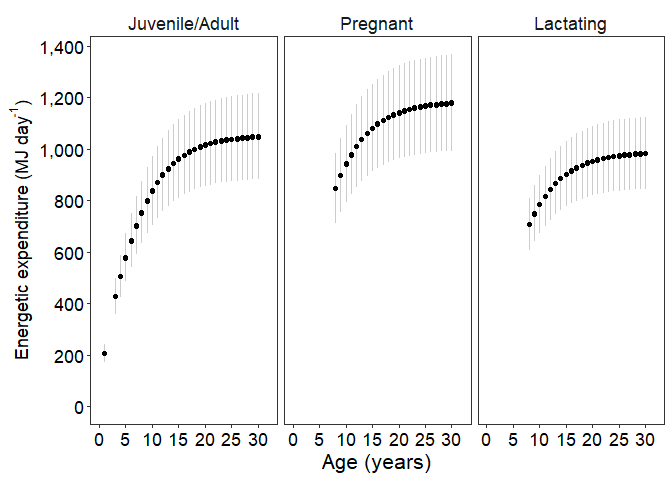
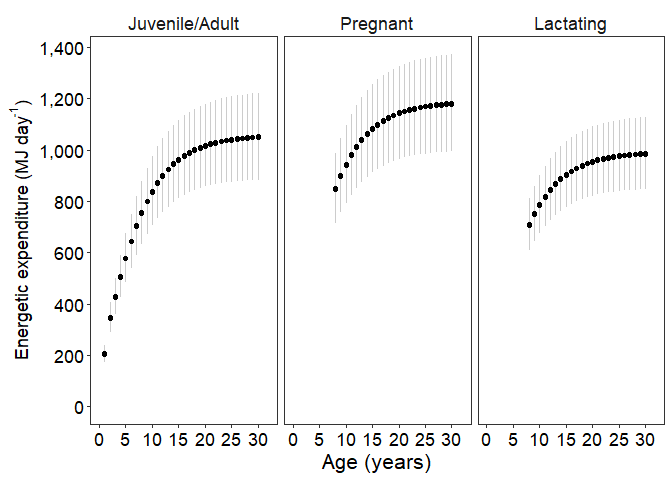
commit updates to results charts for paper

diff --git a/results_for_paper/EnergeticsModeling_GreyWhales_Results_charts.md b/results_for_paper/EnergeticsModeling_GreyWhales_Results_charts.md
@@ -1,7 +1,7 @@
 ENERGY REQUIREMENTS OF GREY WHALES
 ================
 Selina Agbayani
-29 July, 2025
+31 July, 2025
 
 ## RESULTS
 
@@ -19,11 +19,7 @@ Selina Agbayani
 
 #### Grey whale calves
 
-    ## Error: 'data/Es_table_phase1_permth_source_bpm.csv' does not exist in current working directory ('C:/Users/AgbayaniS/Documents/R/graywhale_energyreqs').
-
-    ## Error in eval(expr, envir, enclos): object 'Es_table_phase1_permth' not found
-
-    ## Error in eval(expr, envir, enclos): object 'plot_Es_table_phase1_mthly_perday' not found
+![](EnergeticsModeling_GreyWhales_Results_charts_files/figure-gfm/Es_table_phase1_permth-1.png)<!-- -->
 
 Figure 4. Estimates of daily energetic expenditure from activity (MJ
 day<sup>-1</sup>) for each month in the first year (Phase 1). Error bars
@@ -42,44 +38,20 @@ Error bars represent SD.
 
 #### Grey whale calves
 
-    ## Error: 'data/predict_GER_table_phase1_permth_source_bpm.csv' does not exist in current working directory ('C:/Users/AgbayaniS/Documents/R/graywhale_energyreqs').
-
-    ## Error in eval(expr, envir, enclos): object 'predict_GER_table_phase1_permth' not found
-
-    ## Error in eval(expr, envir, enclos): object 'plot_predict_GER_phase1_permth' not found
+![](EnergeticsModeling_GreyWhales_Results_charts_files/figure-gfm/predict_GER_table_phase1_permth-1.png)<!-- -->
 
 Figure 6. Daily Gross Energy Requirements (GER) for calves in the first
 year in MJ day<sup>-1</sup>. Error bars represent SD.
 
 #### Grey whale juveniles / adults
 
-    ## Error: 'data/predict_GER_table_phase2_source_bpm.csv' does not exist in current working directory ('C:/Users/AgbayaniS/Documents/R/graywhale_energyreqs').
-
-    ## Error in eval(expr, envir, enclos): object 'predict_GER_table_phase2' not found
-
-    ## Error in eval(expr, envir, enclos): object 'predict_GER_table_phase2' not found
-
-    ## Error in eval(expr, envir, enclos): object 'predict_GER_table_phase2' not found
-
-    ## Error in eval(expr, envir, enclos): object 'predict_GER_table_phase2' not found
-
-    ## Error in eval(expr, envir, enclos): object 'plot_predict_GER_all_yr_phase2' not found
-
-    ## Error in eval(expr, envir, enclos): object 'plot_predict_GER_phase2_both_annual_foraging' not found
+![](EnergeticsModeling_GreyWhales_Results_charts_files/figure-gfm/predict_GER_table_phase2-1.png)<!-- -->
 
 Figure 7. Daily gross energy requirements over the year compared to
 gross daily requirements when foraging is limited to the summer season.
 Foraging season spans ~154 days for juveniles and adults.
 
-    ## Error: 'data/predict_GER_table_all_preg_lact_source_bpm.csv' does not exist in current working directory ('C:/Users/AgbayaniS/Documents/R/graywhale_energyreqs').
-
-    ## Error in eval(expr, envir, enclos): object 'predict_GER_table_3panel' not found
-
-    ## Error in eval(expr, envir, enclos): object 'predict_GER_table_3panel' not found
-
-    ## Error in eval(expr, envir, enclos): object 'plot_GER_3panel' not found
-
-    ## Error in eval(expr, envir, enclos): object 'plot_GER_3panel' not found
+![](EnergeticsModeling_GreyWhales_Results_charts_files/figure-gfm/predict_GER_table_preg_lact-1.png)<!-- -->
 
 Figure 8. Estimates for gross energy requirements for pregnant,
 lactating females, and others (juvenile and other adult grey whales).
@@ -94,15 +66,7 @@ lactating females. Error bars represent SD.
 
 #### Grey whale calves
 
-    ## Error: 'data/predict_GER_table_phase1_permth_source_bpm.csv' does not exist in current working directory ('C:/Users/AgbayaniS/Documents/R/graywhale_energyreqs').
-
-    ## Error in eval(expr, envir, enclos): object 'predict_GER_table_phase1_permth' not found
-
-    ## Error in eval(expr, envir, enclos): object 'predict_GER_table_phase1_permth' not found
-
-    ## Error in eval(expr, envir, enclos): object 'plot_MilkReqs_phase1' not found
-
-    ## Error in eval(expr, envir, enclos): object 'milkreqs_figure' not found
+![](EnergeticsModeling_GreyWhales_Results_charts_files/figure-gfm/plot_milk_food_reqs_phase1-1.png)<!-- -->
 
 Figure 9. Daily milk requirements for calves. The left panel represents
 milk requirements (L day<sup>-1</sup>) for calves up to 9 months (left
@@ -111,13 +75,7 @@ invertebrate prey day<sup>-1</sup>) for weaned calves over 9 months.
 
 #### Grey whale juveniles and adults, including pregnant and lactating
 
-    ## Error: 'data/predict_GER_table_all_preg_lact_source_bpm.csv' does not exist in current working directory ('C:/Users/AgbayaniS/Documents/R/graywhale_energyreqs').
-
-    ## Error in eval(expr, envir, enclos): object 'predict_GER_table_3panel' not found
-
-    ## Error in eval(expr, envir, enclos): object 'predict_GER_table_3panel' not found
-
-    ## Error in eval(expr, envir, enclos): object 'plot_FoodReqs_3panel' not found
+![](EnergeticsModeling_GreyWhales_Results_charts_files/figure-gfm/plot_FoodReqs_3panel-1.png)<!-- -->
 
 Figure 10. Food requirements (kg day-1) of benthic invertebrate prey for
 pregnant females, lactating females, and others (juveniles and other
@@ -126,13 +84,7 @@ be ~154 days for single juveniles (1-7 y) and adults (\> 8 y), ~153 days
 for pregnant females, and ~119 days for lactating females. Error bars
 represent SD.
 
-    ## Error: 'data/pct_bodyweight_all_lact_preg.csv' does not exist in current working directory ('C:/Users/AgbayaniS/Documents/R/graywhale_energyreqs').
-
-    ## Error in eval(expr, envir, enclos): object 'pct_bodyweight_all' not found
-
-    ## Error in eval(expr, envir, enclos): object 'pct_bodyweight_all' not found
-
-    ## Error in eval(expr, envir, enclos): object 'plot_pct_bodyweight_all' not found
+![](EnergeticsModeling_GreyWhales_Results_charts_files/figure-gfm/plot_pct_bodywt_consumed_3panel-1.png)<!-- -->
 
 Figure 11. Percentage of body weight consumed day-1 during the foraging
 season for juveniles and other adults, pregnant females, and lactating
@@ -202,41 +154,20 @@ Figure 19. Results for the sensitivity analysis on *E<sub>s</sub>*
 (total energetic expenditure) for Juvenile and adult grey whales,
 including pregnant and lactating females.
 
-``` r
-plot_Es_sensAnalysis_phase2_peryear <- Es_sensAnalysis_phase2_peryear %>% 
-  dplyr::filter(Lifestage == "Juvenile/Adult" & age_yrs >= 1 & age_yrs < 30) %>% 
-  ggplot() +
-  geom_errorbar(aes(x = age_yrs, ymin = Es_perday - Es_sd_perday, 
-                    ymax = Es_perday + Es_sd_perday),
-                linetype = 3, colour = 'gray40', width = 0) +
-  geom_point(aes(x = age_yrs, y =Es_perday)) +
-  facet_grid(~MC_variable)+
-  xlab("Age (years)") +
-  ylab(bquote('Energetic expenditure (MJ day '^'-1'*')')) +
-  scale_x_continuous(breaks = scales::pretty_breaks(n = 10))+
-                     #limits = c(0, 30.5), expand=c(0,0)) +  # max x-axis 30 yrs.
-  scale_y_continuous(label=comma,
-                     breaks = scales::pretty_breaks(n = 10))+
-                     #limits = c(0,1400), expand=c(0,0))+
-  theme_bw()+
-theme_bw() +
-  theme(panel.grid = element_blank())+
-  theme(legend.position = 0)+
-  # theme(plot.background = element_rect(fill = "black"))+
-  # theme(panel.background = element_rect(fill = "black"))+
-  theme(panel.border = element_blank())+
-  theme(axis.line = element_line(size = 1, colour = "gray75"))+
-  theme(axis.text = element_text(colour = "black", size = rel(1.2)))+
-  theme(axis.title.y = element_text(colour = "black", 
-                                    size = rel(1.4), angle = 90))+
-  theme(axis.title.x = element_text(colour = "black", 
-                                    size = rel(1.4)))
-```
+![](EnergeticsModeling_GreyWhales_Results_charts_files/figure-gfm/plots_Es_phase2_peryear-1.png)<!-- -->
 
-    ## Error in eval(expr, envir, enclos): object 'Es_sensAnalysis_phase2_peryear' not found
+![](EnergeticsModeling_GreyWhales_Results_charts_files/figure-gfm/plots_Es_phase2_stacked-1.png)<!-- -->
 
-``` r
-plot_Es_sensAnalysis_phase2_peryear
-```
+Es for all life stages including pregnant and lactating
 
-    ## Error in eval(expr, envir, enclos): object 'plot_Es_sensAnalysis_phase2_peryear' not found
+    ## Error in `vroom::vroom()`:
+    ## ! `file` is not one of the supported inputs:
+    ## • A filepath or character vector of filepaths
+    ## • A connection or list of connections
+    ## • Literal or raw input
+
+![](EnergeticsModeling_GreyWhales_Results_charts_files/figure-gfm/Es%20preg%20lact-1.png)<!-- -->
+
+![](EnergeticsModeling_GreyWhales_Results_charts_files/figure-gfm/Es_preg_stacked-1.png)<!-- -->
+
+![](EnergeticsModeling_GreyWhales_Results_charts_files/figure-gfm/Es_lact_stacked-1.png)<!-- -->
